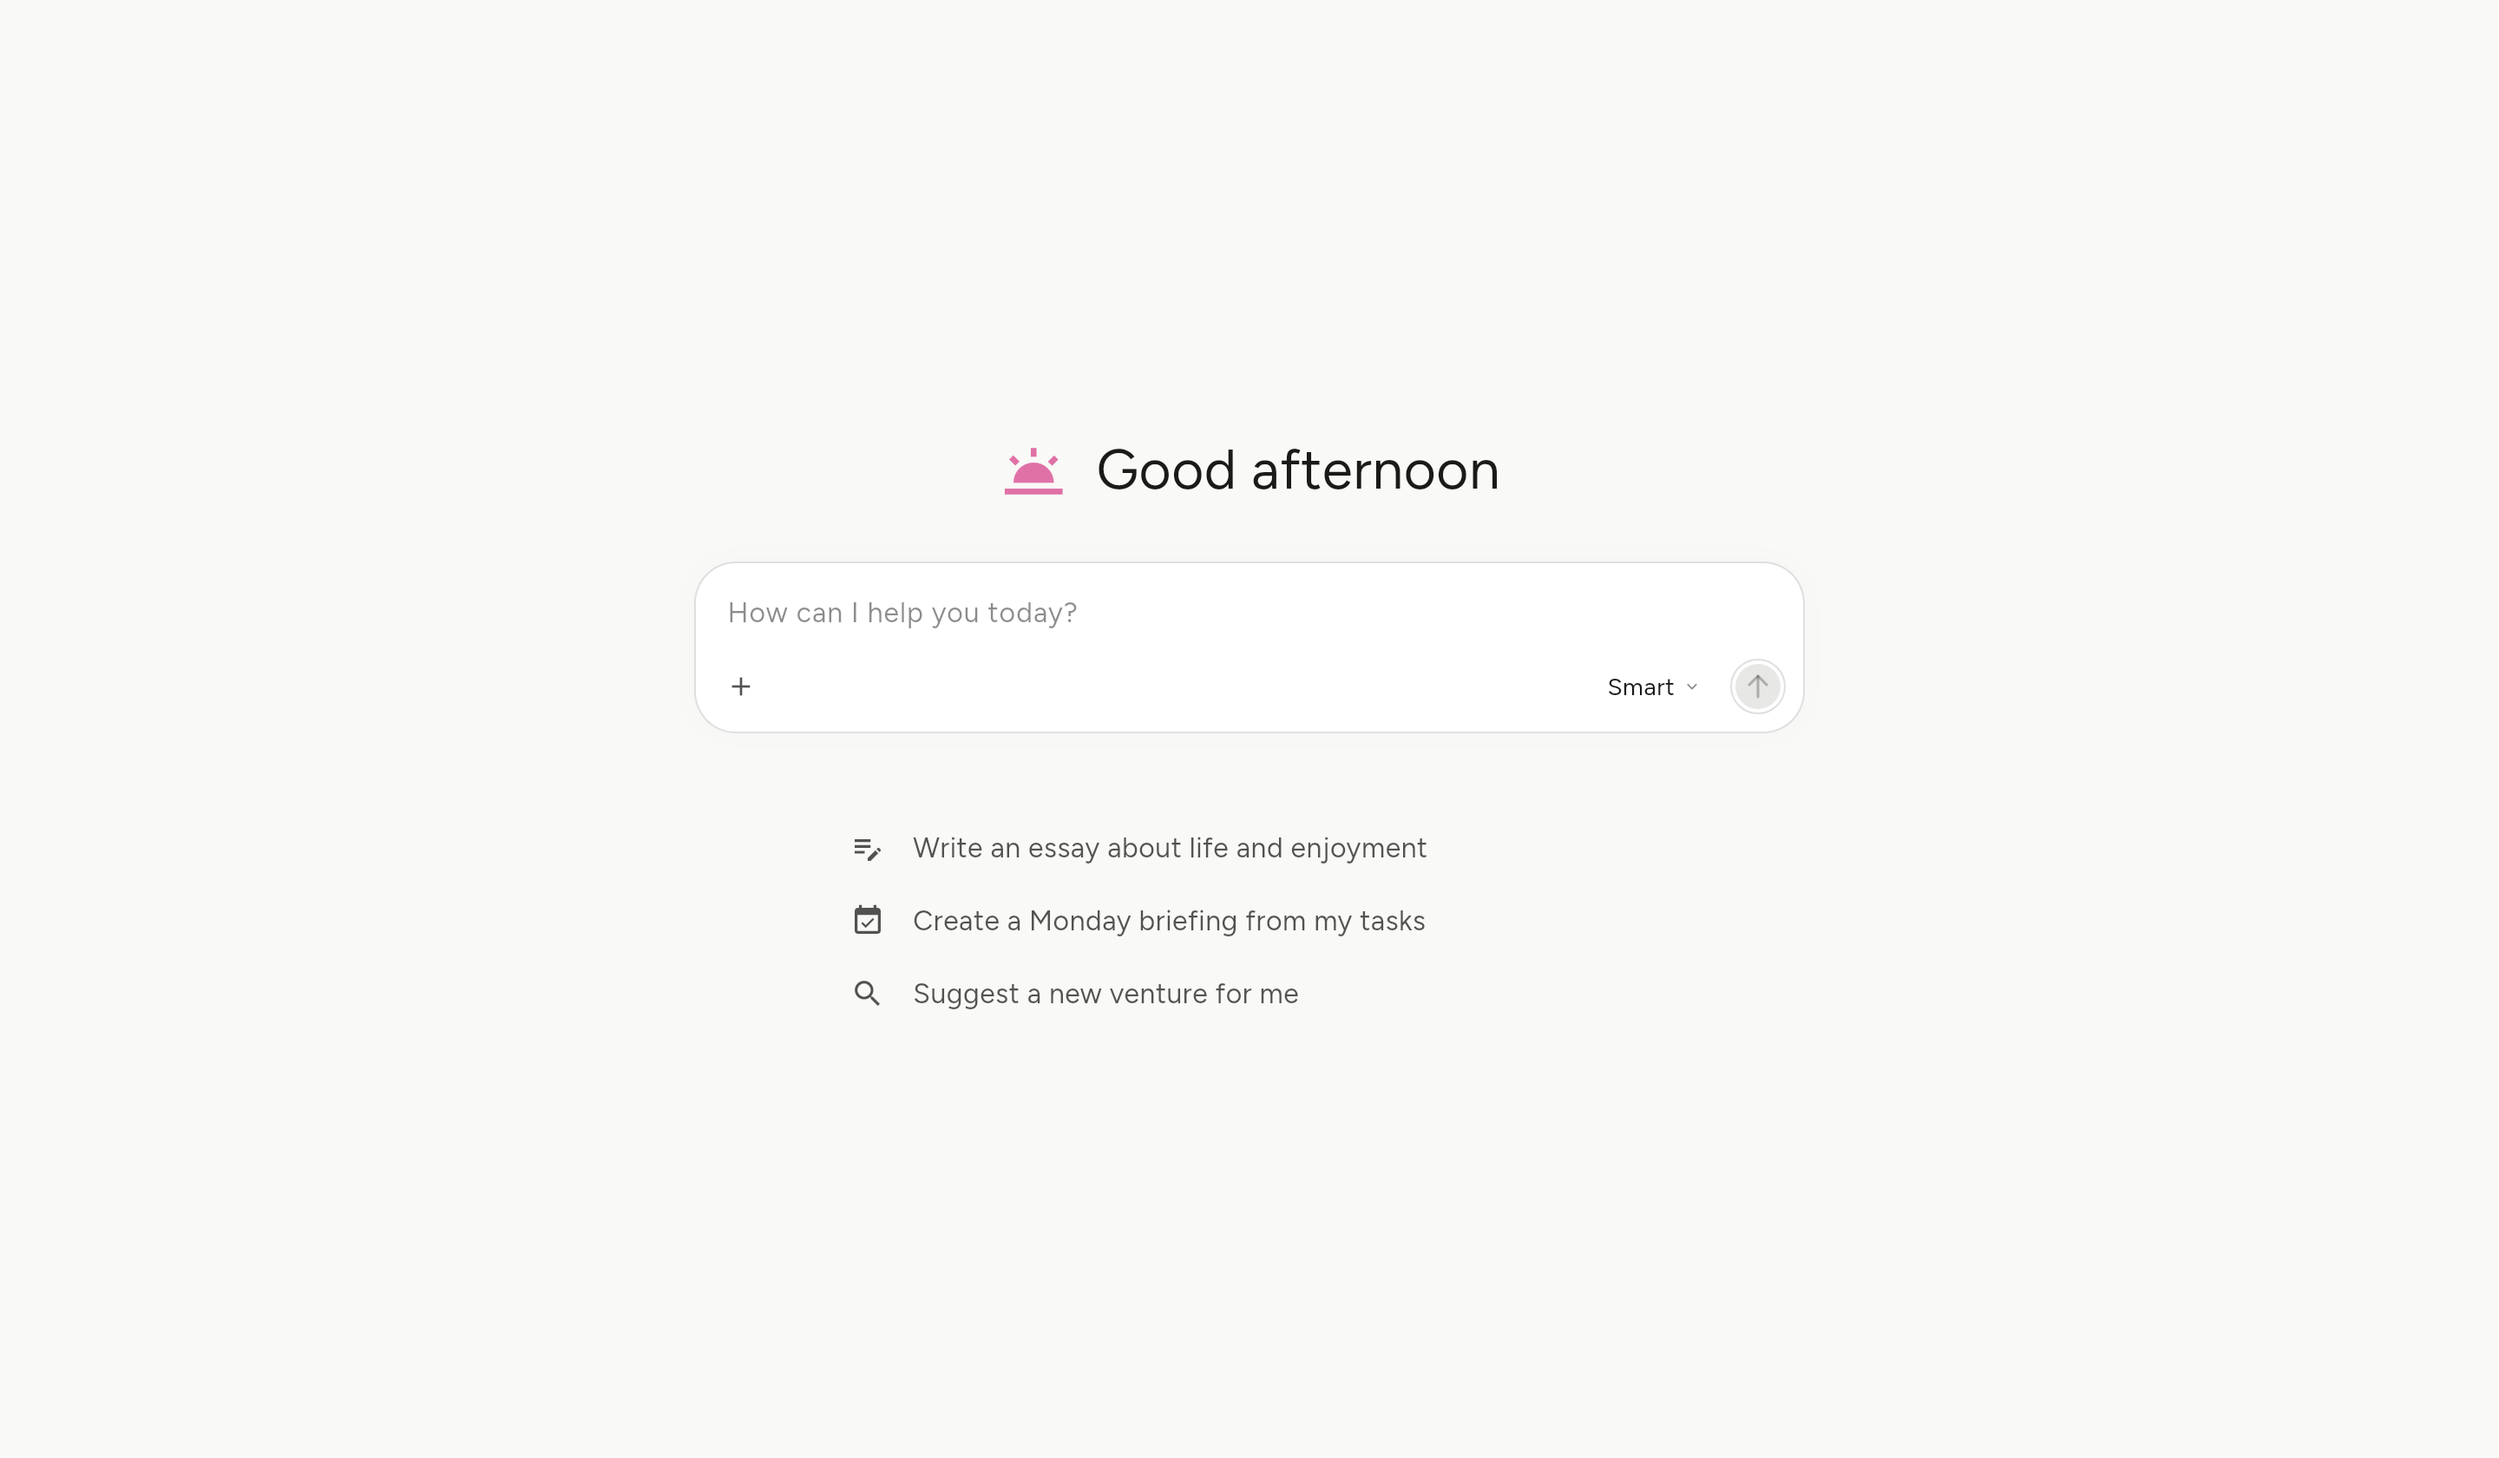
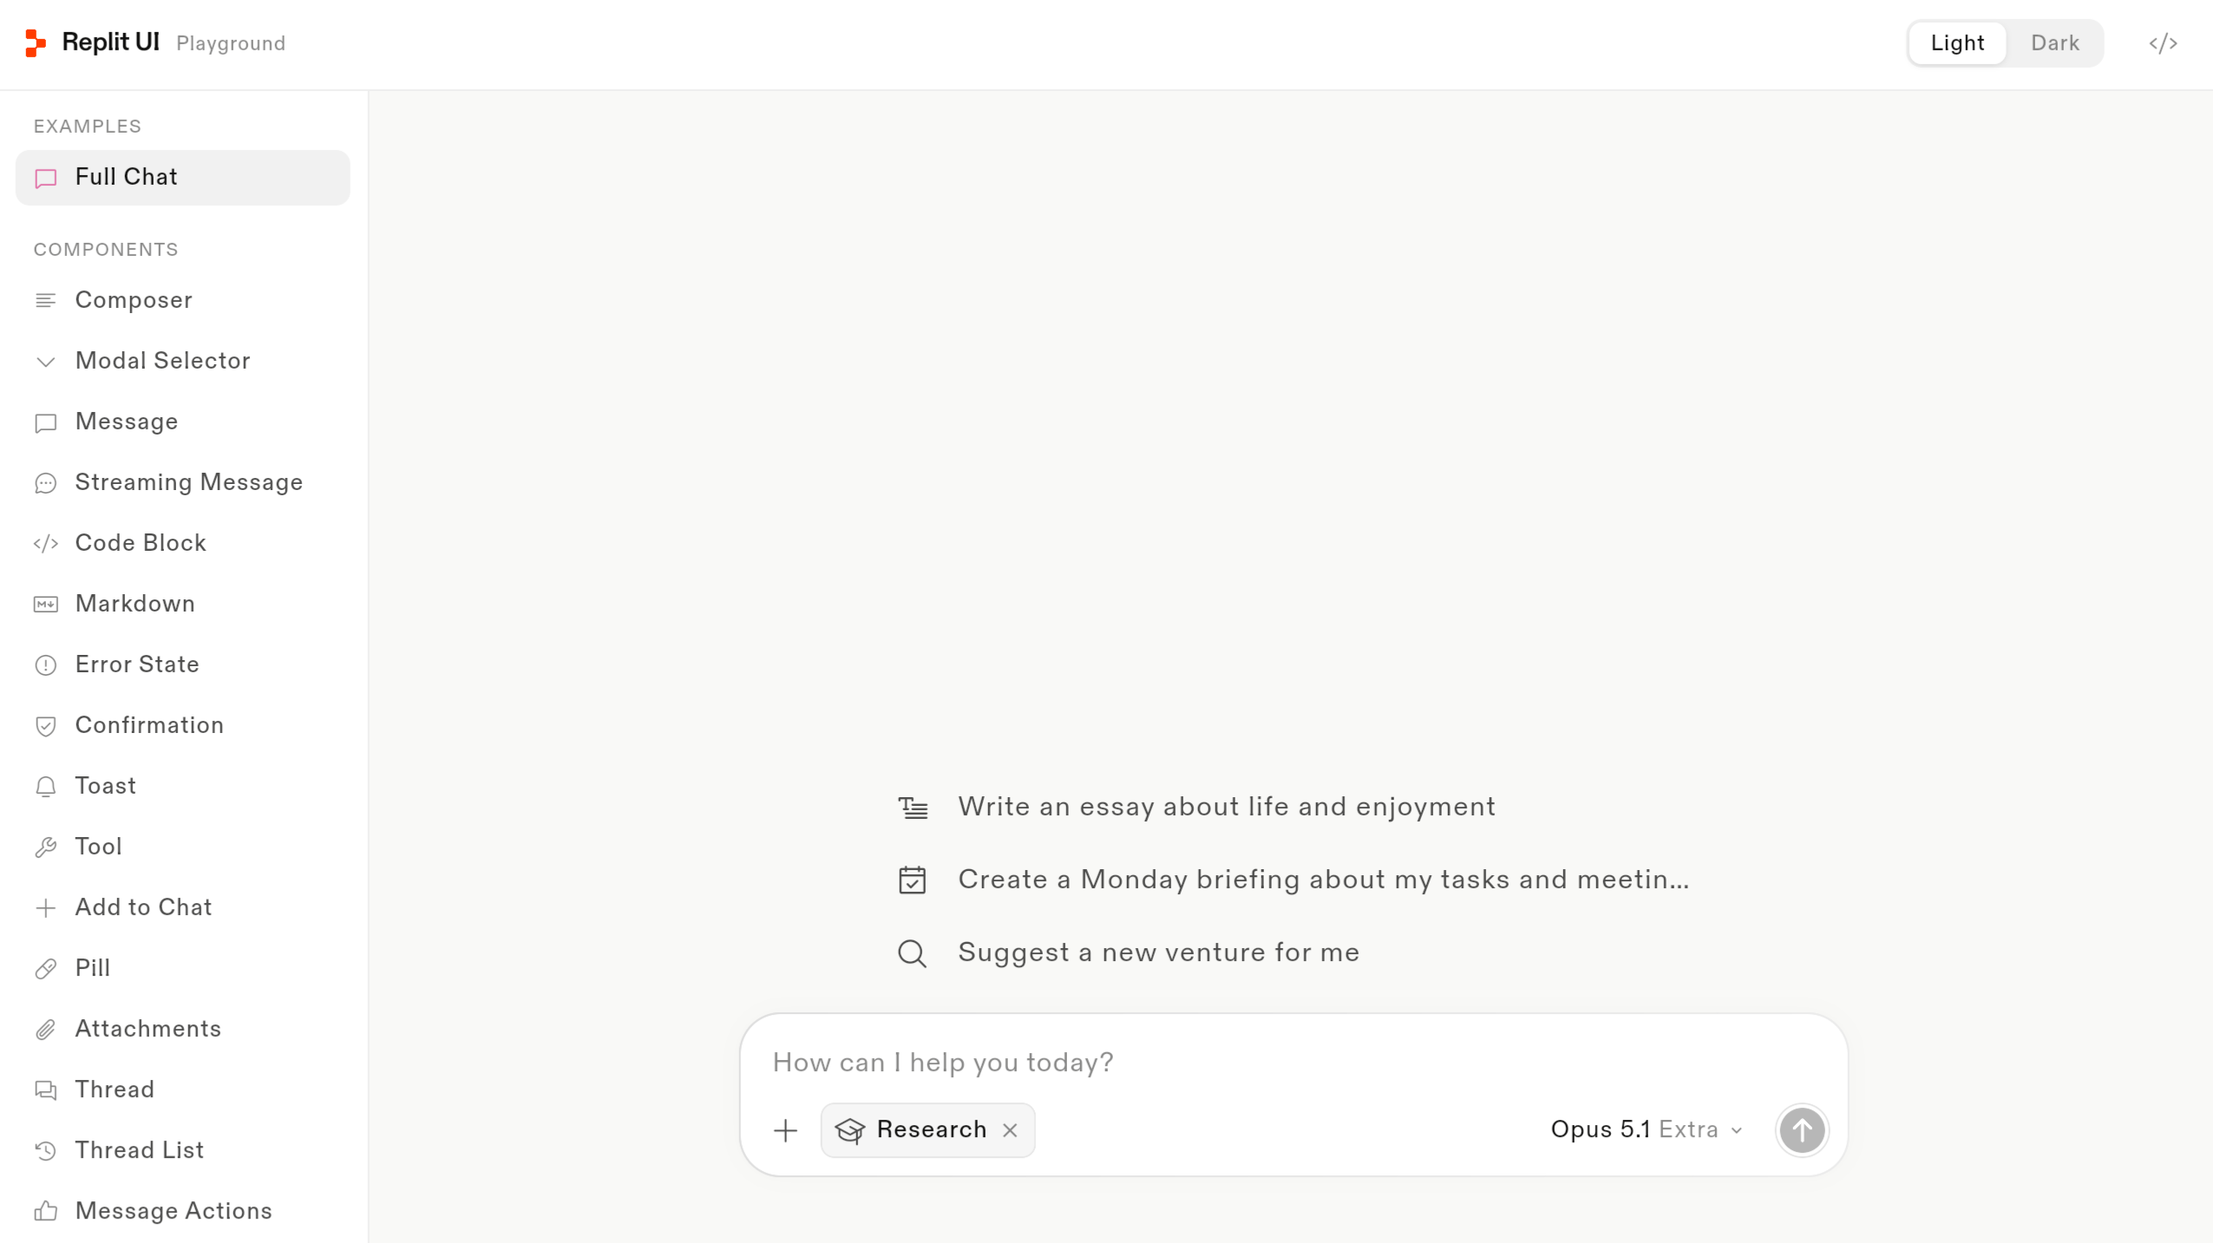
feat: Add chat surface image to README for better visual representation

diff --git a/README.md b/README.md
@@ -14,6 +14,8 @@
 Flutter UI library and optional streaming SDK for AI chat interfaces.
 </p>
 
+![The replit_ui chat surface](packages/replit_ui/assets/chat_zero_light.png)
+
 ## Packages
 
 This repository is a Dart pub workspace. `replit_ui` includes both the
